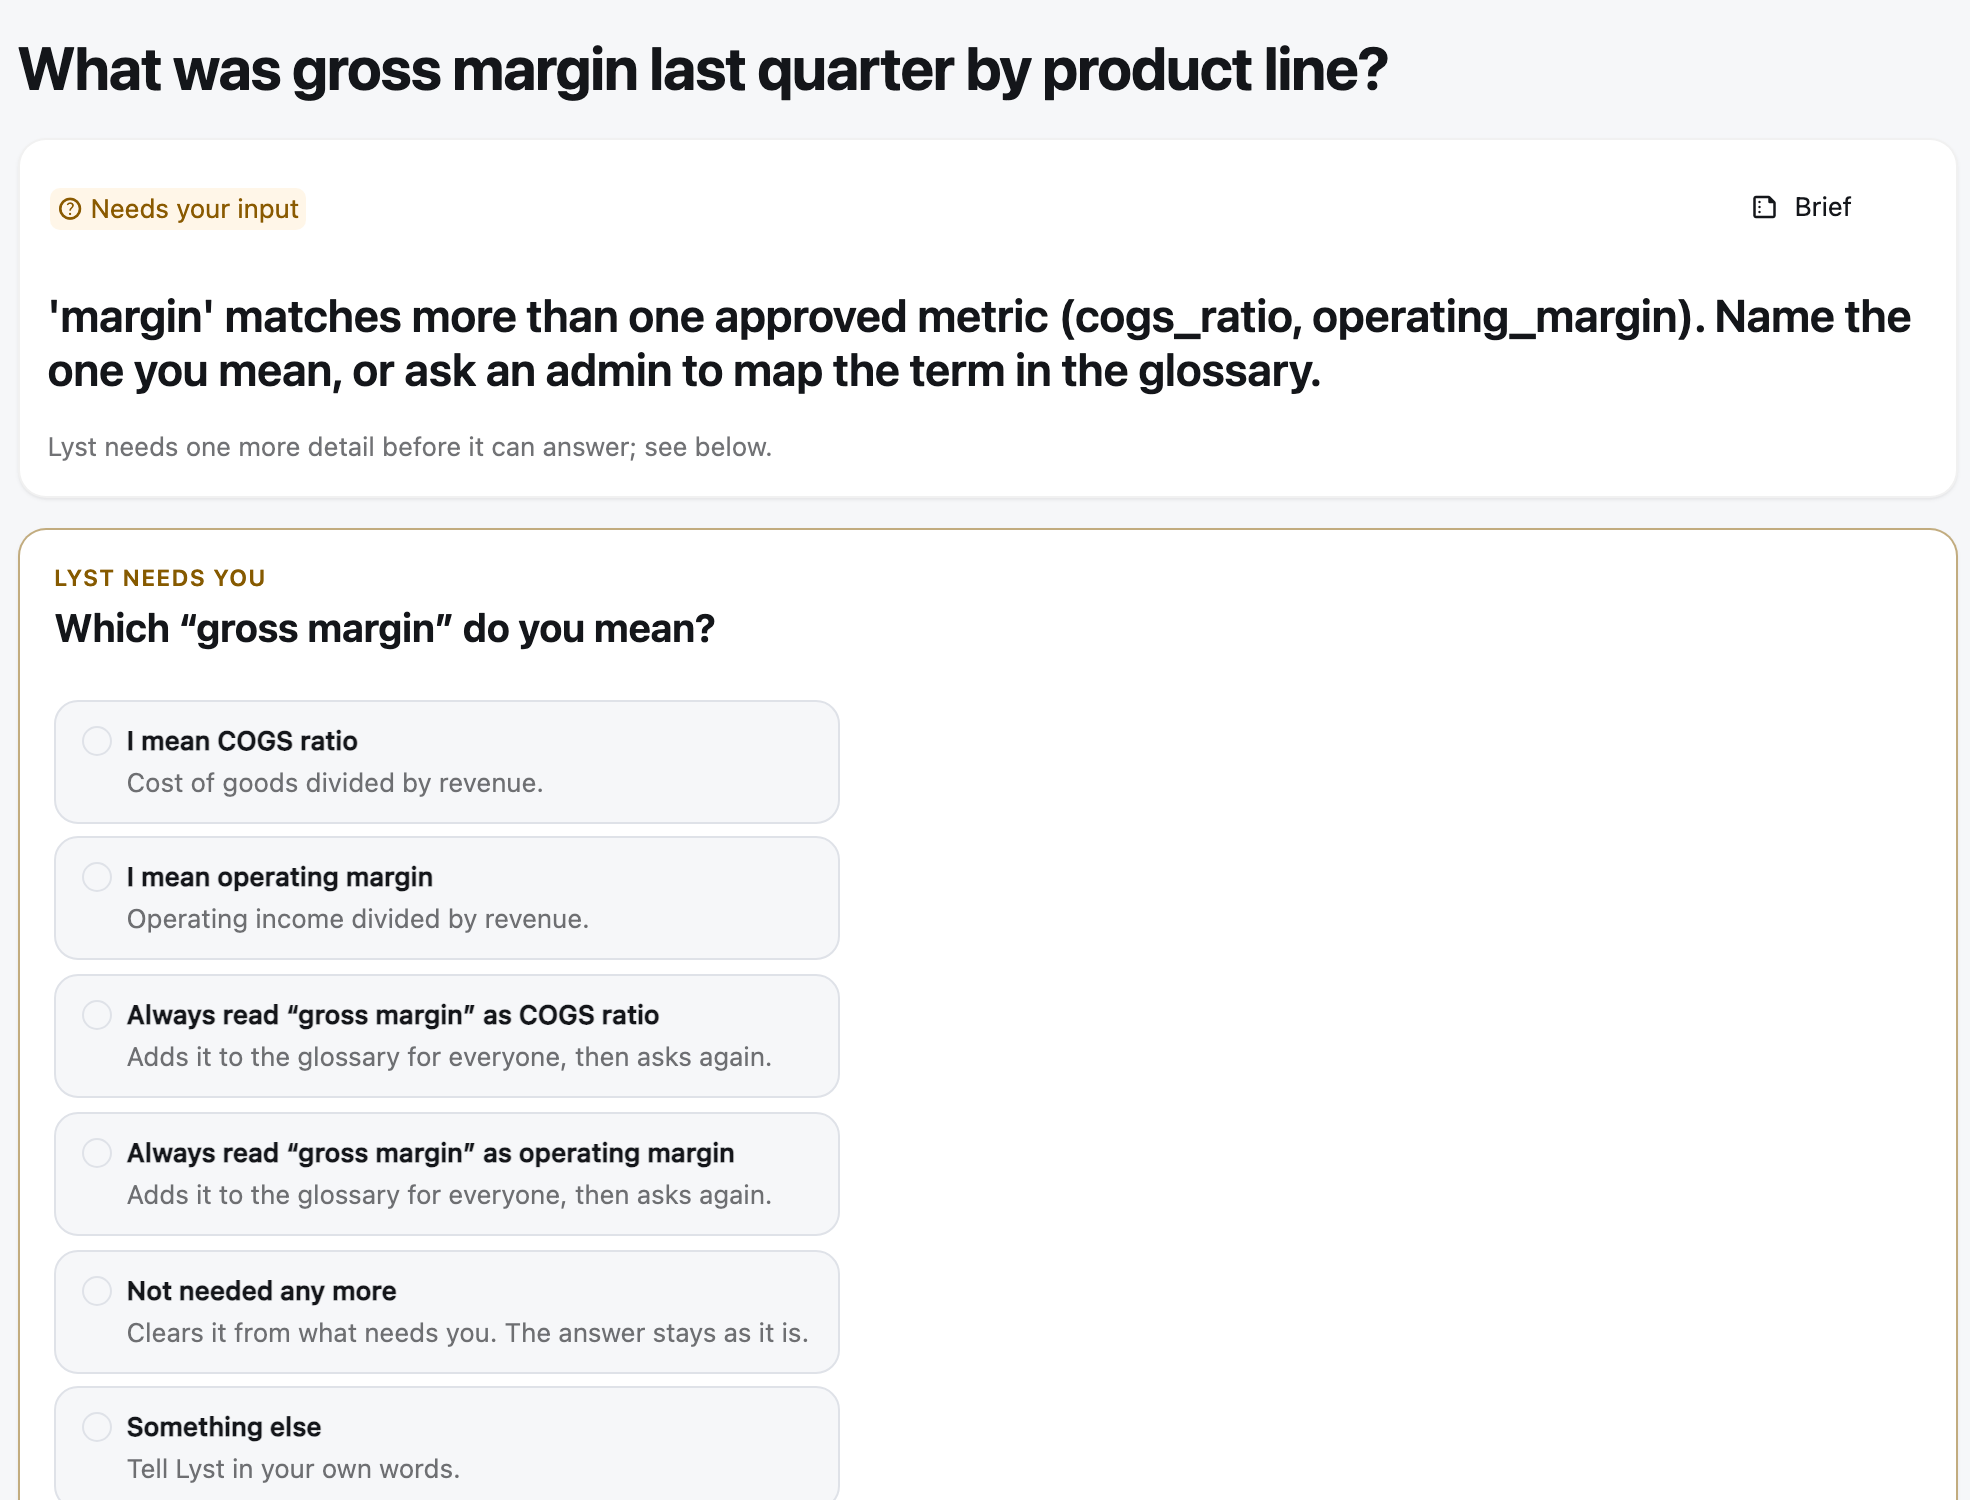
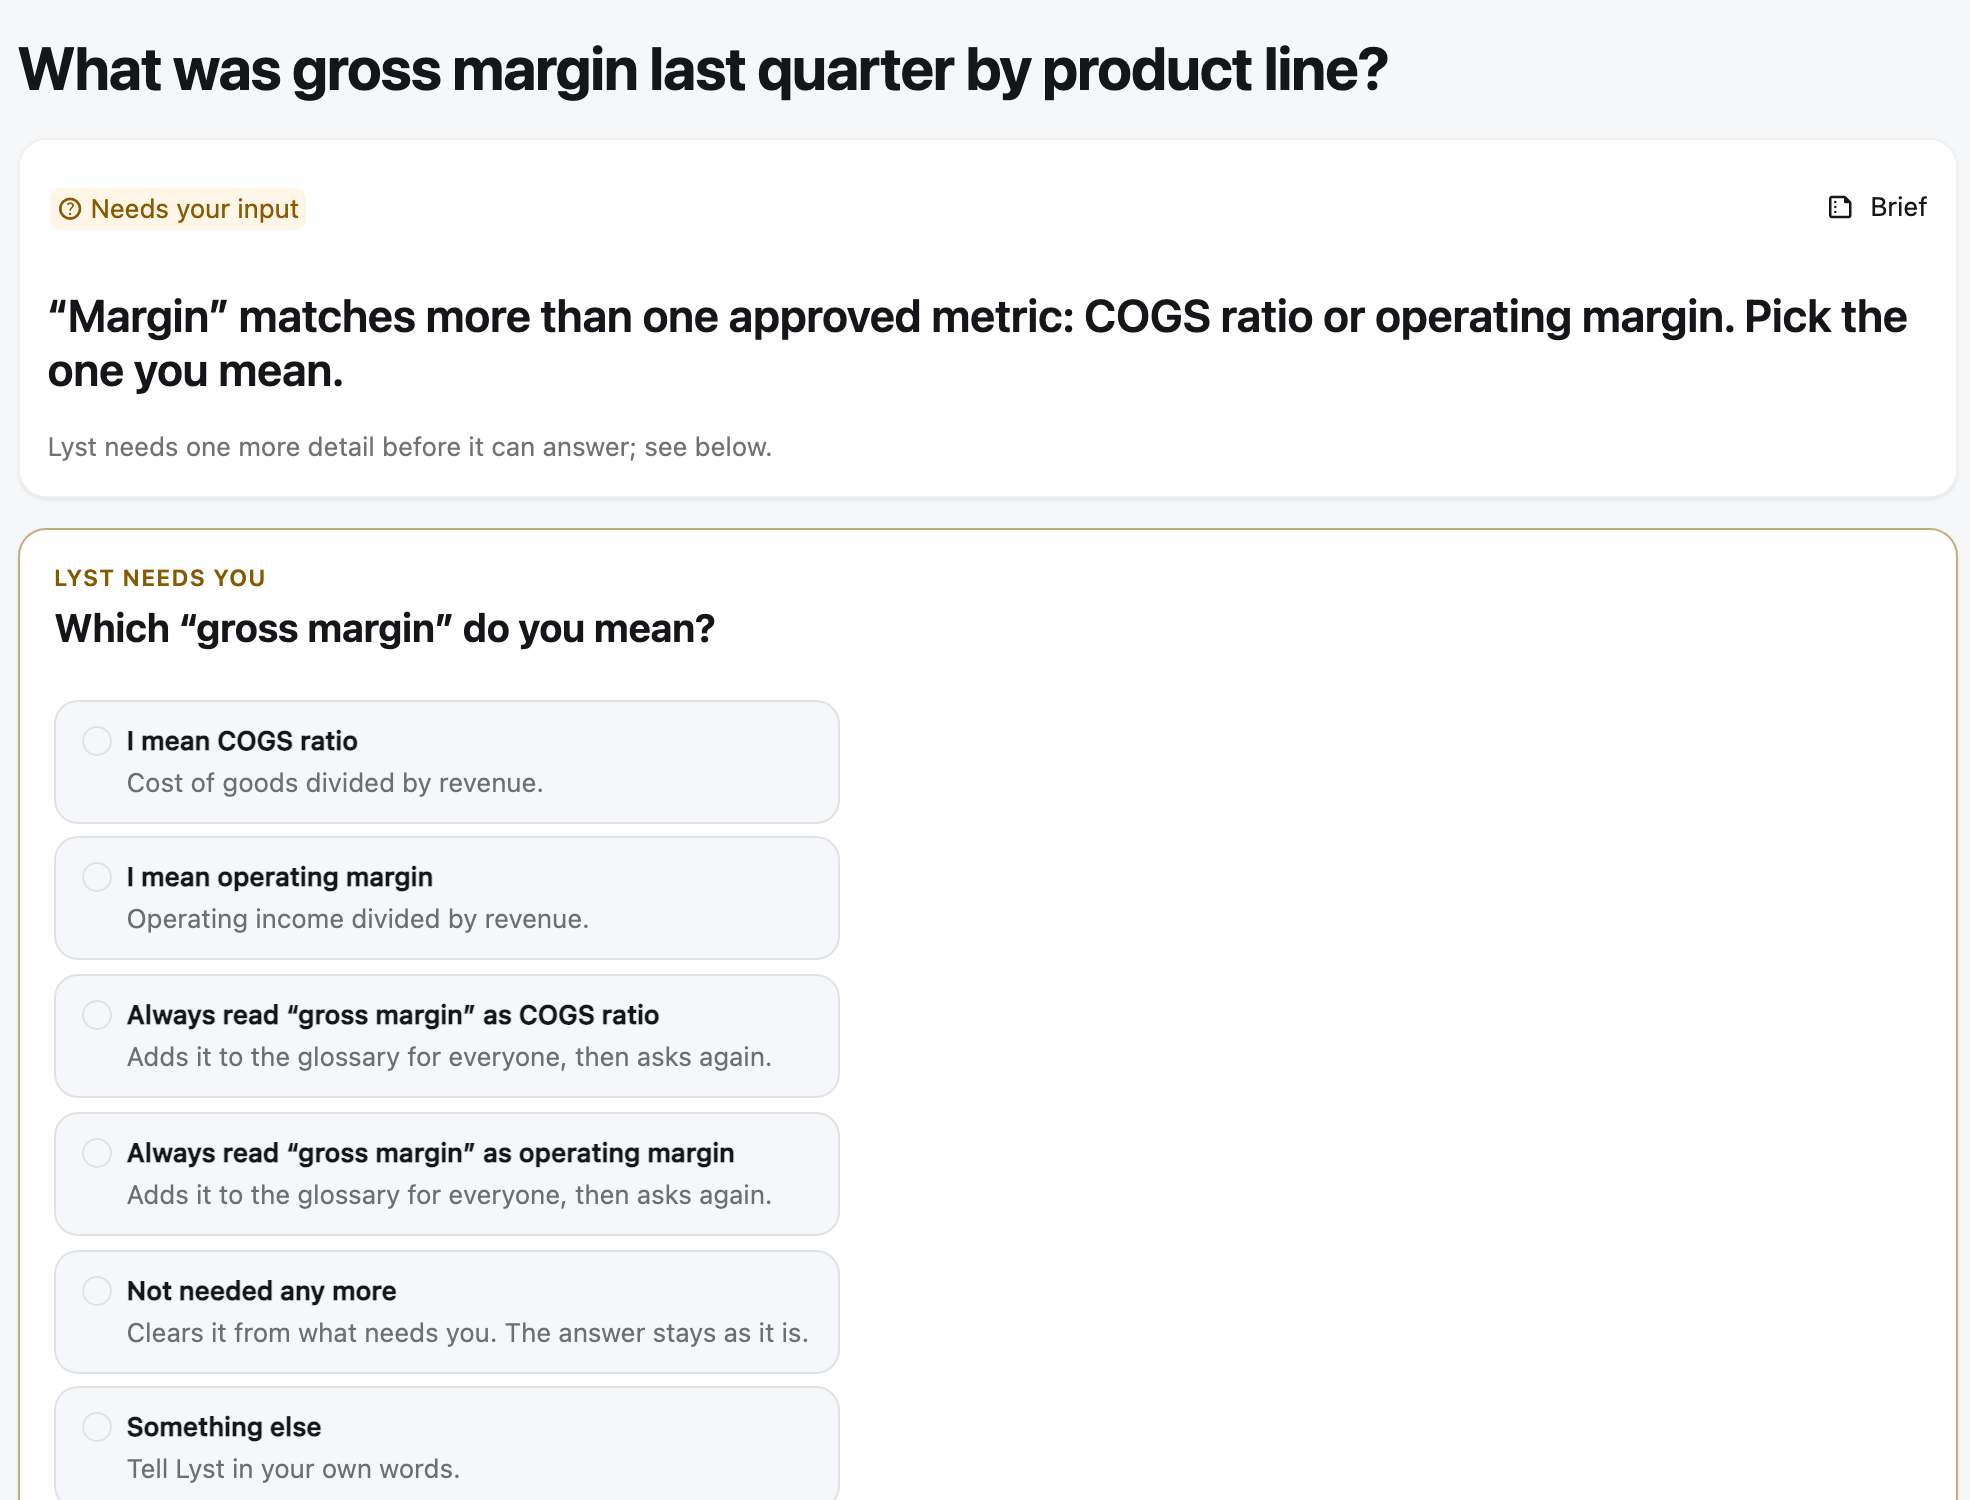
README: activity in one place, year over year by member, YTD, peak periods, quality questions and plain ambiguity (#206, #208, #210)

Changed region(s): [[0.031, 0.184, 0.9599, 0.276], [0.898, 0.1227, 0.9909, 0.1533]]

diff --git a/README.md b/README.md
@@ -105,7 +105,8 @@ the top of the page: ask by typing or speaking (asked from Data, Brain or Settin
 without leaving the page), go anywhere by name ("go to SQL", "open definitions"), and watch Lyst work: a
 **Watch** chip for what is running, a **Live** panel with each step and the event feed, and an opt-in **Follow
 Lyst**; a running answer shows Lyst's mark and the current step over a hairline of progress. Data, Brain and
-Settings each have the same **activity board**, which folds to one quiet line when nothing needs you, with
+Settings each have the same **activity board** in the same place: under the page header when something needs you
+or work is running, and otherwise one quiet line at the end of the page so the page's own content leads. It has
 Suggested, Needs you, In progress and Done, scoped to the page with an **Everywhere** switch: click a card to open
 it, hold it (or press M) for its actions, or drag it to another column to propose that move, with each column
 saying what a drop would do; the keyboard works too (arrows, and Space to pick up and drop), every change asks for
@@ -250,6 +251,7 @@ loaded, sensitivity), whether the data has changed since, and whether running it
 **Undo** any time. A wrong answer stops being reused, recalled or cited; a right one becomes validated memory.
 
 **When Lyst needs you, it asks one plain question with choices.** An answer that needs your input or did not verify
+says so in words ("“Margin” matches more than one approved metric: COGS ratio or operating margin") and
 asks, for example, *Which "gross margin" do you mean?*, offering the approved metrics it could be (each with its
 definition), a way to map the word for everyone (admins confirm it in place; editors ask an admin, and nothing changes
 until another admin approves), *Not needed any more* and **Something else** for your own words. Lyst carries out the
@@ -260,7 +262,7 @@ rewritten, and each resolution is recorded and audited. The same choices are on 
 you (**Resolve**).
 
 <p align="center">
-  <img src="docs/images/needs-you.png" alt="An answer that needs your input: Which gross margin do you mean? with I mean COGS ratio, I mean operating margin, Always read gross margin as either one, Not needed any more and Something else" width="75%">
+  <img src="docs/images/needs-you.png" alt="An answer that needs your input, saying Margin matches more than one approved metric: COGS ratio or operating margin, then Which gross margin do you mean? with I mean COGS ratio, I mean operating margin, Always read gross margin as either one, Not needed any more and Something else" width="75%">
 </p>
 
 <p align="center">
@@ -380,8 +382,9 @@ estimate from neighbouring periods and say it is an estimate; otherwise it says 
 overrides a person's call. Staged changes show as a diff with row counts and totals before and after. Applying them
 needs an approval; once approved they become a new dataset version with the same schema, the earlier version is
 kept, and **Undo** puts it back. If the data changed after staging, the resolution is refused as stale. Open it from
-Lyst's one line on Data, a dataset's **Review** or **More › Review data quality**, or straight from a profiling
-answer, which shows the table in place.
+Lyst's one line on Data, a dataset's **Review** or **More › Review data quality**, or by simply asking ("Are there any
+data quality issues in the pnl dataset?" runs the check, and asks which dataset if you name none); a profiling
+answer shows the table in place.
 
 <p align="center">
   <img src="docs/images/quality-review.png" alt="P&L from the ledger as a sheet over Data, on its Quality view: 3 of 3 flagged rows need review (a duplicate, a negative, an empty cell), Let Lyst resolve, and a table where the negative COGS cell is lit with Lyst suggesting 165,915.02 at high confidence, with Valid, Fix and Exclude" width="85%">
@@ -453,9 +456,12 @@ where they point, with Mark all read and "What to tell me about".
 ### Analysis you can rely on
 
 * **Answers and investigations.** Values with prior-period and year-ago comparisons (a single figure comes with
-  its recent history as a chart), breakdowns, rankings ("top 3 regions by operating income", "which channel had the
+  its recent history as a chart, and "by region year over year" compares each member with a chart of the changes
+  and a table of both periods; year to date is compared with the same months a year earlier), breakdowns, rankings ("top 3 regions by operating income", "which channel had the
   fewest tickets"), trends over the window you ask for, with a headline that says where the metric went and its
-  biggest move, anomalies, forecasts with backtests, "why" questions with exact rate and mix attribution, deep investigations
+  biggest move, the peak period named ("which month had the highest revenue in 2025?"), anomalies, forecasts with
+  backtests (a quarter's forecast read against the last complete quarter), "why" questions with exact rate and mix attribution (a rise is called a rise, and members named in words
+  such as "product line Hardware"), deep investigations
   that decide between competing hypotheses by computation, staffing scenarios under uncertainty, and event
   impact with stated assumptions.
 * **Checks its own work.** Independent validation scaled to consequence (high-stakes answers are recomputed from
